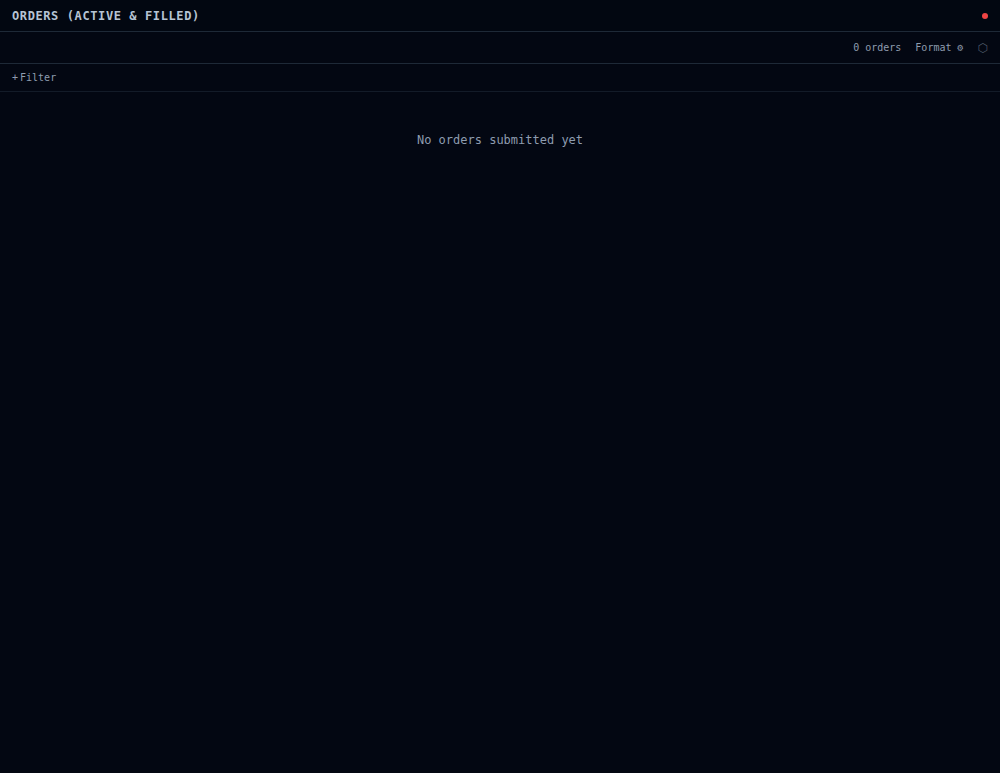
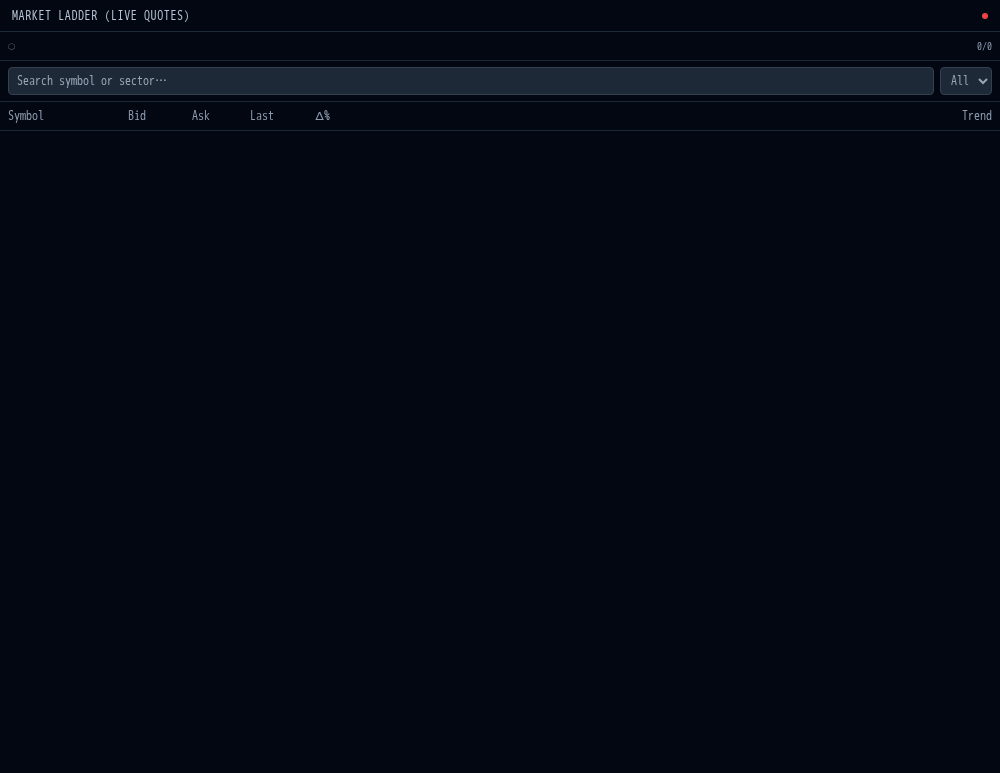
fix(docs): capture Electron screenshots against a healthy mock stack (#450)
The Electron docs screenshots showed an unhealthy app — "Service offline:
User Service", "Connecting to market…", "Services 0/33" — because the mock
gateway the capture runs against was broken in three ways:

- ElectronMockServer referenced an undefined `route` variable (leftover from
  a Playwright-route copy) on every /sessions request, throwing a
  ReferenceError mid-response and breaking the user-service path. Use
  req.method instead.
- No /health handler: servicesApi polls `${base}/health` per service, so
  every service fell through to the catch-all null and showed offline. Add a
  /health (and Traefik /api/overview) handler returning a healthy shape.
- /candles returned [], so the chart never got the >= 2 bars it needs and sat
  on "Connecting to market…" forever. Return a deterministic synthetic OHLC
  series (Math.sin-based, no RNG, reproducible).

Spec hardening:
- waitForHealthy() waits for the chart overlay to clear and dismisses the
  startup alert toast (the optional, cross-origin Traefik dashboard the mock
  does not serve) so no CRITICAL banner is in the shot.
- Pop out the market-ladder (live quotes) instead of an empty order blotter.

Verified by running the capture under xvfb with a freshly rebuilt test app
(the packaged binary on disk was stale from 2026-06-01, which is why prior
runs hung at startup). Dashboard and main-window shots now render a healthy
app with a live chart and populated ladder.
[…]

Changed region(s): [[0.0, 0.031, 0.992, 0.1552], [0.0, 0.0, 0.217, 0.031], [0.403, 0.1552, 0.589, 0.1863]]

diff --git a/frontend/tests-electron/screenshots.spec.ts b/frontend/tests-electron/screenshots.spec.ts
@@ -97,12 +97,40 @@ async function waitForDashboard(page: Page) {
   await page.waitForSelector(".flexlayout__tab", { timeout: 20_000 });
 }
 
+// Wait until the app is actually healthy before capturing, so we never shoot
+// a "Connecting to market…" / "Service offline" frame. The chart overlay
+// clears once candle bars arrive; the offline banner clears once /health
+// polls succeed.
+async function waitForHealthy(page: Page) {
+  // Let the chart panel receive candle bars and the per-service /health polls
+  // resolve before we capture, so we never shoot a "Connecting to market…" or
+  // half-initialised frame.
+  await page
+    .waitForSelector("text=Connecting to market", { state: "detached", timeout: 15_000 })
+    .catch(() => {});
+  // Give the service-health poll round time to complete (33 services on an
+  // interval), so the status bar shows the fleet up rather than 1/33.
+  await page.waitForTimeout(4_000);
+  // Dismiss any startup alert toast (e.g. the optional, cross-origin Traefik
+  // dashboard which the mock does not serve) so the CRITICAL banner is not in
+  // the shot. Best-effort: the controls only exist if a toast is showing.
+  for (const label of ["Dismiss all", "Got it"]) {
+    await page
+      .getByText(label, { exact: false })
+      .first()
+      .click({ timeout: 2_000 })
+      .catch(() => {});
+  }
+  await page.waitForTimeout(500);
+}
+
 // ── 1. Main dashboard with live market data ───────────────────────────────────
 
 test("electron screenshot: main dashboard", async () => {
   await waitForDashboard(mainPage);
 
   mockServer.sendMarketUpdate(PRICES, VOLUMES);
+  await waitForHealthy(mainPage);
   await mainPage.waitForTimeout(800);
 
   await mainPage.screenshot({
@@ -116,16 +144,19 @@ test("electron screenshot: main dashboard", async () => {
 test("electron screenshot: linked pop-out window", async () => {
   await waitForDashboard(mainPage);
   mockServer.sendMarketUpdate(PRICES, VOLUMES);
+  await waitForHealthy(mainPage);
   await mainPage.waitForTimeout(400);
 
   // Open a pop-out panel via window.open — mirrors what usePopOut() does.
   // Must use the same file:// origin so setWindowOpenHandler allows it.
+  // Pop out the market-ladder (live quotes) rather than an empty order
+  // blotter, so the linked-pop-out screenshot shows meaningful content.
   const popOutPromise = electronApp.waitForEvent("window");
 
   await mainPage.evaluate(() => {
     const params = new URLSearchParams({
-      panel: "order-blotter",
-      type: "order-blotter",
+      panel: "market-ladder",
+      type: "market-ladder",
       layout: "veta-layout-v5",
     });
     const url = `${globalThis.location.origin}${globalThis.location.pathname}?${params}`;

diff --git a/frontend/tests-electron/helpers/ElectronMockServer.ts b/frontend/tests-electron/helpers/ElectronMockServer.ts
@@ -104,6 +104,21 @@ export class ElectronMockServer {
       res.end(JSON.stringify(data));
     };
 
+    // Per-service health polls (servicesApi.ts hits `${baseUrl}/health` for
+    // every service, plus the gateway's own /health). Without this they fall
+    // through to the catch-all null and the UI marks every service offline
+    // ("Services 0/33", "Service offline: User Service").
+    if (url.endsWith("/health") || url.includes("/health?")) {
+      json({ service: "mock", version: "test", status: "ok" });
+      return;
+    }
+
+    // Traefik health is polled via /api/overview, not /health.
+    if (url.includes("/api/overview")) {
+      json({ http: { routers: {}, services: {} }, features: {} });
+      return;
+    }
+
     // /api/gateway/ready
     if (url.includes("/ready")) {
       json({
@@ -134,9 +149,25 @@ export class ElectronMockServer {
       return;
     }
 
-    // /api/gateway/candles
+    // /api/gateway/candles — the chart panel shows a "Connecting to market…"
+    // overlay until it has >= 2 candle bars, so an empty array leaves the
+    // chart perpetually loading in the screenshot. Return a short synthetic
+    // OHLC series (flat OhlcCandle[], matching the real endpoint).
     if (url.includes("/candles")) {
-      json([]);
+      const interval = url.includes("interval=5m") ? "5m" : "1m";
+      const stepMs = interval === "5m" ? 300_000 : 60_000;
+      const base = 189.5;
+      const now = this._startedAt;
+      const bars = Array.from({ length: 60 }, (_, i) => {
+        const time = now - (60 - i) * stepMs;
+        const drift = Math.sin(i / 6) * 1.5;
+        const open = base + drift;
+        const close = base + Math.sin((i + 1) / 6) * 1.5;
+        const high = Math.max(open, close) + 0.4;
+        const low = Math.min(open, close) - 0.4;
+        return { time, open, high, low, close, volume: 100_000 + i * 1_000 };
+      });
+      json(bars);
       return;
     }
 
@@ -156,12 +187,12 @@ export class ElectronMockServer {
     // POST /sessions is deprecated and returns 410 in backend
     if (
       url.includes("/sessions/me") ||
-      (url.includes("/sessions") && route.request().method() === "DELETE")
+      (url.includes("/sessions") && req.method === "DELETE")
     ) {
       json(this._user);
       return;
     }
-    if (url.includes("/sessions") && route.request().method() === "POST") {
+    if (url.includes("/sessions") && req.method === "POST") {
       json(
         { error: "legacy /sessions login is disabled; use OAuth2 /oauth/authorize + /oauth/token" },
         410
